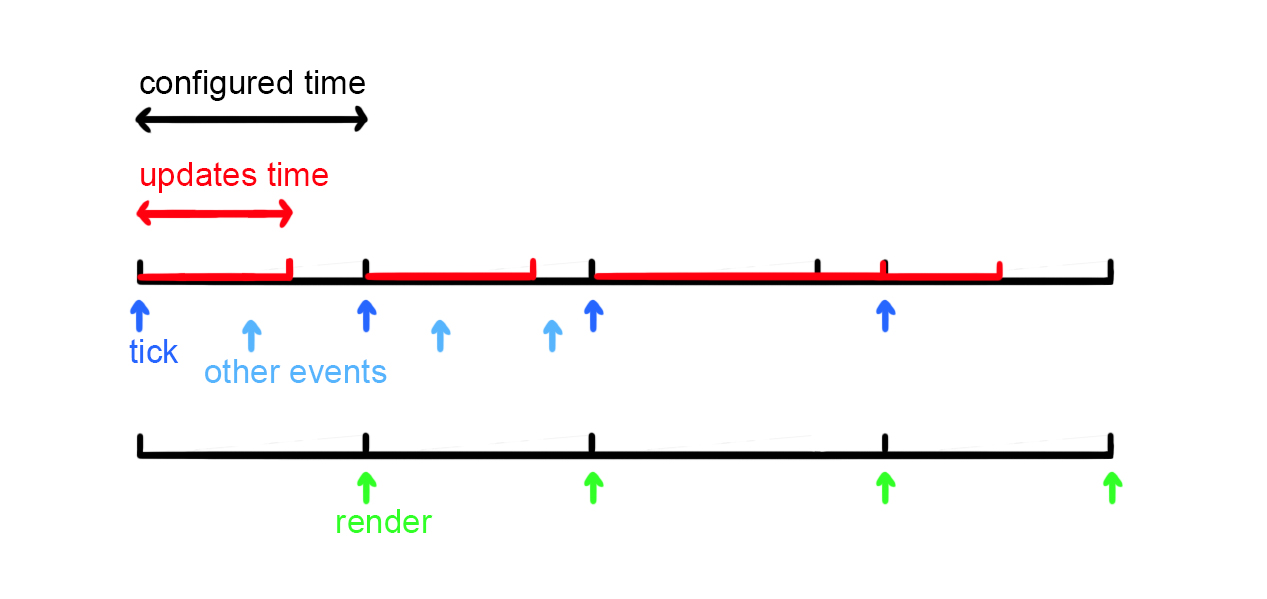
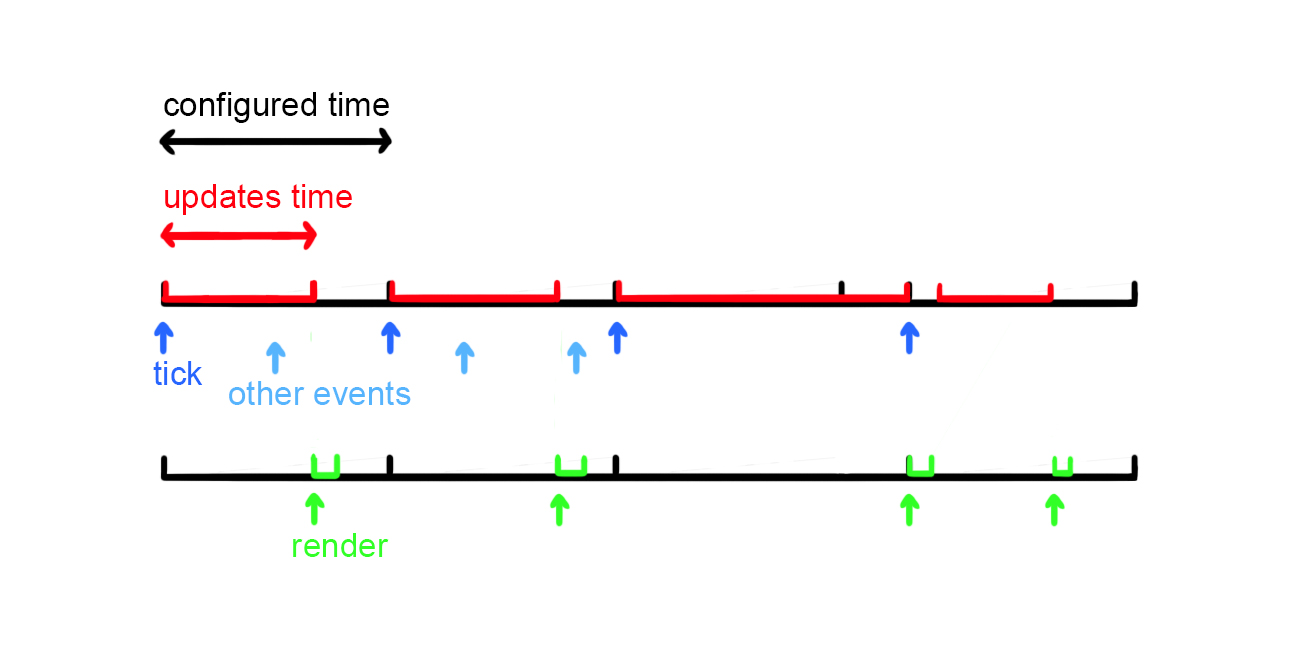
fix: tick event

diff --git a/docs/event/tick.md b/docs/event/tick.md
@@ -40,10 +40,10 @@ In Messenger, rendering does not correspond directly to a single game update. In
 Users do not need to worry about the correctness of the model state when many events occur, as the model is updated according to the event queue. Though the game will be shown as paused since rendering is blocked.
 :::
 
-When the time interval is set to `Millisecond` mode, both the `Tick` event and rendering are triggered at the configured interval. If a frame takes longer than the configured interval, the next `Tick` will wait until the current frame finishes.
+A `Tick` event marks the start of an updates-render period. When the time interval is set to `Millisecond` mode, the `Tick` events are triggered at the configured interval. If a frame takes longer than the configured interval, the next `Tick` will wait until the current frame finishes.
 
 ![](/img/event1.jpg)
 
-When the time interval is set to `AnimationFrame` mode, the `Tick` event and rendering are triggered as soon as the previous updates are complete.
+When the time interval is set to `AnimationFrame` mode, the updates-render cycle synchronizes with the browser's rendering frame, which also means the `Tick` events are triggered as soon as the previous updates-render period is complete.
 
 ![](/img/event2.jpg)
